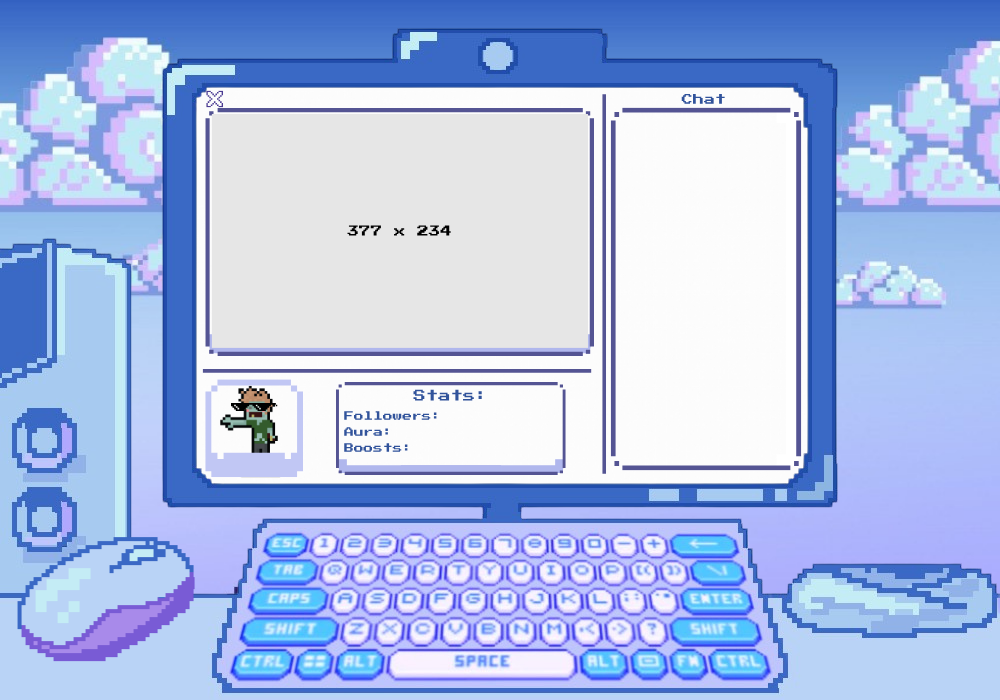
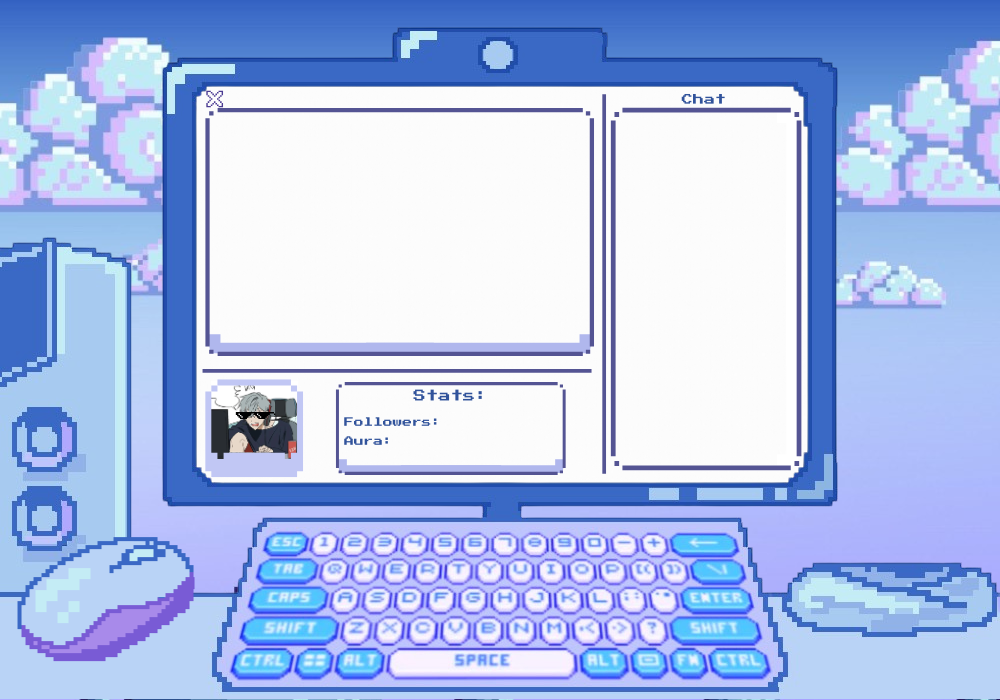
fixed livestream

diff --git a/src/ButtonClass.java b/src/ButtonClass.java
@@ -18,17 +18,19 @@ public class ButtonClass {
     private JButton tic1,tic2, tic3, tic4, tic5, tic6, tic7, tic8, tic9, checkWinner, shopback;
     private JTextArea livestreamChat;
     private JScrollPane scrollPane;
+    private Thread livestreamThread;
+    private volatile boolean livestreamExited = false;
     private JTextField usernameText, passwordText;
     private JPanel btnPanel, mainPanel;
     private Frame cardLayoutPanel;
     private JPanelAnimation animation;
     private Livestream livestream;
     private Sponsors sponsors;
-    private boolean livestreamExited;
     private Font pressStartFont;
     private TicTacToe ticTacToe;
     private JLabel TTTWin, TTTLose, TTTDraw, TTTNull, label, TTTotalWins, TTTtotalLosses, TTTAura;
-    private JLabel followersGained, auraGained, totalFollowers, totalAura, aura;
+    private JLabel followersGained, auraGained, totalFollowers, totalAura, aura, followersLS, auraLS,
+            game0, game1, game2, game3;
     private boolean[] pressedKeys;
     private int round;
     private int wins;
@@ -43,19 +45,20 @@ public class ButtonClass {
         this.cardLayoutPanel = cardLayoutPanel;
         this.player = player;
         sponsors = new Sponsors();
-        livestreamExited = false;
         ticTacToe = new TicTacToe(player);
-//        aura = new JLabel("" + player.getAura());
-//        aura.setFont(pressStartFont);
-//        aura.setOpaque(true);
-
 
         ticTacToe = new TicTacToe(player);
         aura = new JLabel(player.getAura() + "");
         aura.setFont(pressStartFont);
         aura.setBounds(400, 400, 1000, 400);
 
-        //create buttons
+        followersLS = new JLabel(String.valueOf(player.getFollowers()));
+        auraLS = new JLabel(String.valueOf(player.getAura()));
+        game0 = new JLabel(new ImageIcon("src/images/LSGame0.png"));
+        game1 = new JLabel(new ImageIcon("src/images/LSGame1.png"));
+        game2 = new JLabel(new ImageIcon("src/images/LSGame2.png"));
+        game3 = new JLabel(new ImageIcon("src/images/LSGame3.png"));
+
         usernameText = new JTextField(15);
         passwordText = new JTextField(4);
         livestreamChat = new JTextArea(280,500);
@@ -366,21 +369,54 @@ public class ButtonClass {
         });
 
         timer = new Timer(3000, e -> {
-        int randomIncrement = (int) (Math.random() * 1001);
-        player.addFollowers(randomIncrement);
-        System.out.println("Current value of Followers: " + player.getFollowers());
+            int randomIncrement = (int) (Math.random() * 1001);
+            player.addFollowers(randomIncrement);
+            followersLS.setText(String.valueOf(player.getFollowers()));
         });
 
         backBtnLS.addActionListener(e -> {
             timer.stop();
+            cardLayoutPanel.getLivestreamScreen().remove(auraLS);
             cardLayoutPanel.showCard("AppScreen");
         });
 
         livestreamApp.addActionListener(e -> {
+            int randomGame = (int) (Math.random() * 5);
+            if (randomGame == 0) {
+                game0.setBounds(202,100,380,240);
+                cardLayoutPanel.getLivestreamScreen().add(game0);
+            } else if (randomGame == 1) {
+                game1.setBounds(202,100,380,240);
+                cardLayoutPanel.getLivestreamScreen().add(game1);
+            } else if (randomGame == 2) {
+                game2.setBounds(202,100,380,240);
+                cardLayoutPanel.getLivestreamScreen().add(game2);
+            } else {
+                game3.setBounds(202,100,380,240);
+                cardLayoutPanel.getLivestreamScreen().add(game3);
+            }
+
+            cardLayoutPanel.getLivestreamScreen().add(followersLS);
+            followersLS.setFont(pressStartFont.deriveFont(15f));
+            followersLS.setForeground(Color.decode("#31529b"));
+            followersLS.setBounds(440, 365, 200, 60);
+
+            auraLS = new JLabel(String.valueOf(player.getAura()));
+            auraLS.setFont(pressStartFont.deriveFont(15f));
+            auraLS.setForeground(Color.decode("#31529b"));
+            auraLS.setBounds(387, 383, 200, 60);
+            cardLayoutPanel.getLivestreamScreen().add(auraLS);
+
             timer.start();
-            new Thread(() -> {
+
+            livestreamExited = true;
+            if (livestreamThread != null && livestreamThread.isAlive()) {
+                livestreamThread.interrupt();
+            }
+            livestreamExited = false;
+
+            livestreamThread = new Thread(() -> {
                 while (!livestreamExited) {
-//                    livestream.incrementByRandomNumber();
                     String textToAppend;
                     int goodOrBad = (int) (Math.random() * 2);
                     if (goodOrBad == 1) {
@@ -391,17 +427,19 @@ public class ButtonClass {
                     String finalTextToAppend = textToAppend;
                     SwingUtilities.invokeLater(() -> {
                         livestreamChat.append(finalTextToAppend);
-                        livestreamChat.setCaretPosition(livestreamChat.getDocument().getLength()); // scroll to bottom
+                        livestreamChat.setCaretPosition(livestreamChat.getDocument().getLength());
                         cardLayoutPanel.getLivestreamScreen().revalidate();
                         cardLayoutPanel.getLivestreamScreen().repaint();
                     });
+
                     try {
                         Thread.sleep(600);
                     } catch (InterruptedException f) {
-                        f.printStackTrace();
+                        break;
                     }
                 }
-            }).start();
+            });
+            livestreamThread.start();
             cardLayoutPanel.showCard("LivestreamScreen");
         });
 

diff --git a/src/Livestream.java b/src/Livestream.java
@@ -16,12 +16,12 @@ public class Livestream {
     }
 
     public String getRandomGood() {
-        int random = (int) (Math.random() * goodChat.length - 1);
+        int random = (int) (Math.random() * goodChat.length);
         return goodChat[random];
     }
 
     public String getRandomBad() {
-        int random = (int) (Math.random() * badChat.length - 1);
+        int random = (int) (Math.random() * badChat.length);
         return badChat[random];
     }
 }
